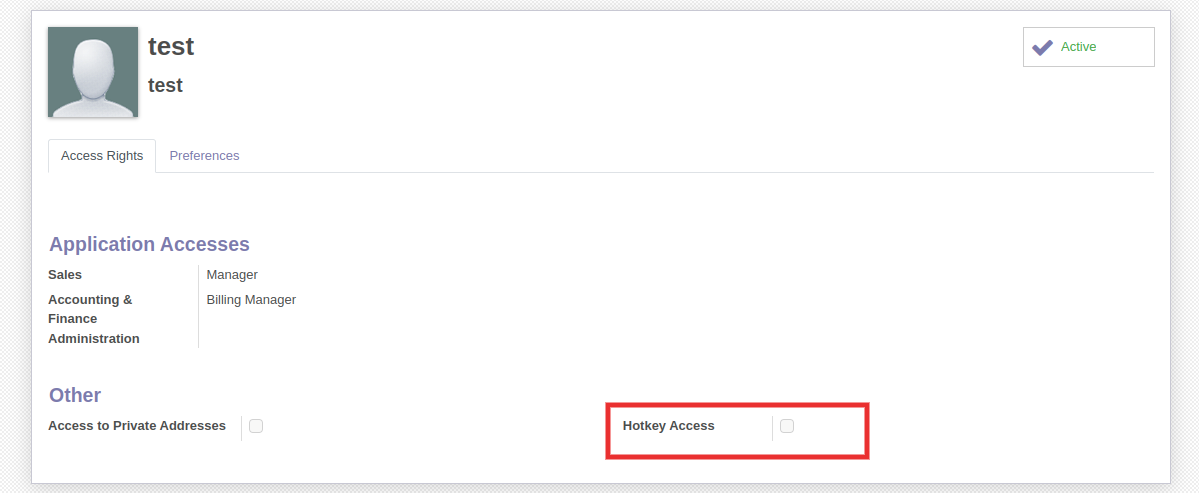
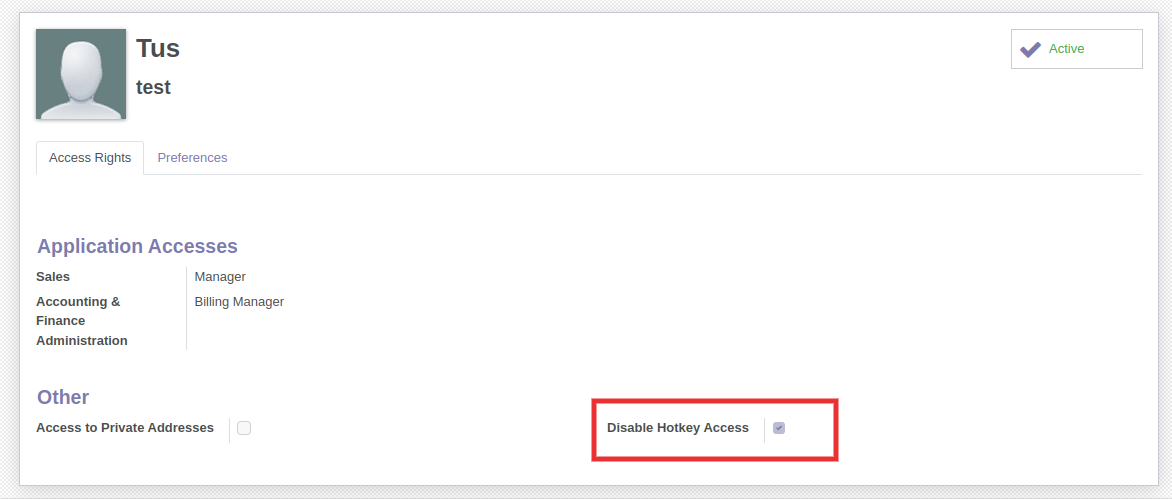
[IMP] modules update.

diff --git a/tus_remove_hotkey/static/src/js/remove_hotkey.js b/tus_remove_hotkey/static/src/js/remove_hotkey.js
@@ -1,19 +1,24 @@
-$(document).keydown(function(event){
-    if(odoo.session_info && odoo.session_info.is_access_key && event.altKey){
-        var elementWithAccessKey = [];
-        elementWithAccessKey = document.documentElement.querySelectorAll('[accesskey]');
-        _.each(elementWithAccessKey, function (elem) {elem.removeAttribute('accesskey');});
+odoo.define('tus_remove_hotkey.remove_hotkey', function (require) {
+"use strict";
 
-        var ariaElementWithAccessKey = [];
-        ariaElementWithAccessKey = document.documentElement.querySelectorAll('[aria-keyshortcuts]');
-        _.each(ariaElementWithAccessKey, function (elem) {elem.removeAttribute('aria-keyshortcuts');});
+    var session = require('web.session');
+    $(document).keydown(function(event){
+        if(session && session.is_access_key && event.altKey){
+            var elementWithAccessKey = [];
+            elementWithAccessKey = document.documentElement.querySelectorAll('[accesskey]');
+            _.each(elementWithAccessKey, function (elem) {elem.removeAttribute('accesskey');});
 
-        var tattElementWithAccessKey = [];
-        tattElementWithAccessKey = document.documentElement.querySelectorAll('[t-att-accesskey]');
-        _.each(ariaElementWithAccessKey, function (elem) {elem.removeAttribute('t-att-accesskey');});
+            var elementWithHotKey = [];
+            elementWithHotKey = document.documentElement.querySelectorAll('[data-hotkey]');
+            _.each(elementWithHotKey, function (elem) {elem.removeAttribute('data-hotkey');});
 
-        var elementWithAccessKeyTooltip = [];
-        elementWithAccessKeyTooltip = $(document).find('.o_web_accesskey_overlay');
-        if (elementWithAccessKeyTooltip.length) {elementWithAccessKeyTooltip.remove();}
-    }
+            var tattElementWithAccessKey = [];
+            tattElementWithAccessKey = document.documentElement.querySelectorAll('[t-att-accesskey]');
+            _.each(tattElementWithAccessKey, function (elem) {elem.removeAttribute('t-att-accesskey');});
+
+            var elementWithAccessKeyTooltip = [];
+            elementWithAccessKeyTooltip = $(document).find('.o_web_accesskey_overlay');
+            if (elementWithAccessKeyTooltip.length) {elementWithAccessKeyTooltip.remove();}
+        }
+    });
 });

diff --git a/tus_remove_hotkey/__manifest__.py b/tus_remove_hotkey/__manifest__.py
@@ -5,7 +5,9 @@
     'author': "TechUltra Solutions",
     'website': "www.techultrasolutions.com",
     'category': 'Hidden',
-    'version': '12.0.1',
+    'version': '16.0.1',
+    "price": 20,
+    "currency": "USD",
     'description': """
         Remove a hotkey by a specific user.
         **************************************************************************************************************
@@ -31,8 +33,11 @@
     """,
     'depends': ['base', 'web'],
     'data': [
-        'view/assets.xml'
+        'data/assets.xml'
     ],
+    'assets': {
+            'web.assets_backend': ['tus_remove_hotkey/static/src/js/remove_hotkey.js'],
+    },
     'license': 'LGPL-3',
     'application': False,
     'images': ['static/description/banner.png'],

diff --git a/tus_remove_hotkey/models/ir_http.py b/tus_remove_hotkey/models/ir_http.py
@@ -2,7 +2,7 @@
     Import Packages, Class
 """
 from odoo.http import request
-from odoo import models
+from odoo import api, models
 
 
 class IrHttp(models.AbstractModel):
